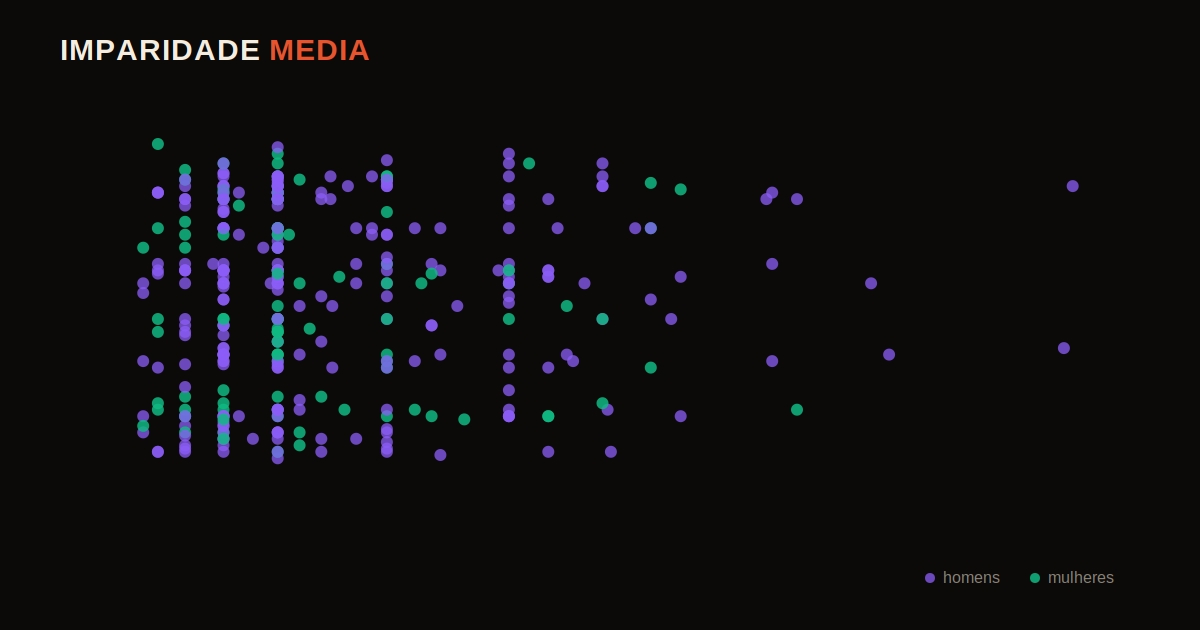
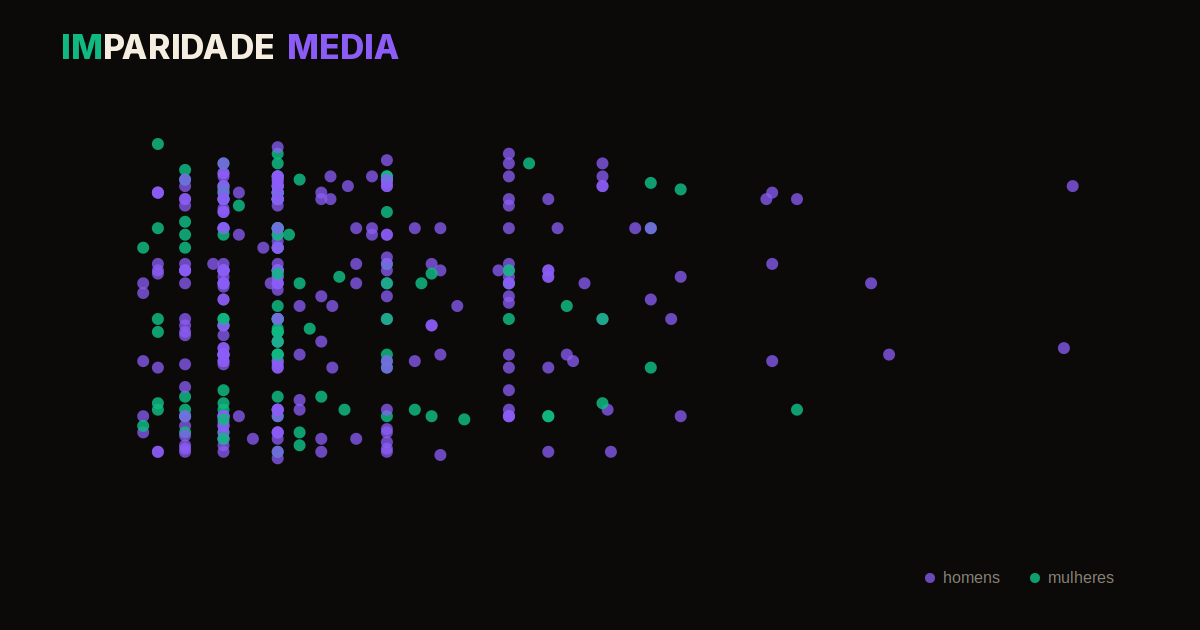
Add files via upload

Changed region(s): [[0.0308, 0.0302, 0.3392, 0.1206]]

diff --git a/index.html b/index.html
@@ -122,8 +122,9 @@
     color: var(--ink);
   }
   .hero h1 span { display: block; }
-  .hero h1 .imp { }
-  .hero h1 .media { color: var(--accent); }
+  .hero h1 .imp { white-space: nowrap; }
+  .hero h1 .imp .imp-letters { display: inline; color: var(--women); }
+  .hero h1 .media { color: var(--men); }
   .hero-tagline {
     font-size: 15px;
     color: var(--ink-dim);
@@ -147,12 +148,13 @@
     line-height: 1;
     margin-bottom: 8px;
   }
-  .hero-bigstat .accent { color: var(--accent); }
+  .hero-bigstat .accent { color: var(--men); }
   .hero-bigstat .small { font-family: 'Inter', sans-serif; font-size: 0.38em; letter-spacing: 0; text-transform: none; color: var(--muted); font-weight: 400; display: block; margin-top: 14px; }
   .hero-bigstat .small em { font-family: 'Fraunces', serif; font-style: italic; font-weight: 300; color: var(--ink-dim); }
   .hero-bigstat .hl-red {
+    color: var(--ink);
     text-decoration: underline;
-    text-decoration-color: var(--accent);
+    text-decoration-color: var(--men);
     text-decoration-thickness: 2px;
     text-underline-offset: 5px;
   }
@@ -800,7 +802,7 @@
     <div class="hero-title">
       <div class="hero-eyebrow">Um retrato · Portugal · 2026</div>
       <h1>
-        <span class="imp">IMPARIDADE</span>
+        <span class="imp"><span class="imp-letters">IM</span>PARIDADE</span>
         <span class="media">MEDIA</span>
       </h1>
       <p class="hero-tagline">